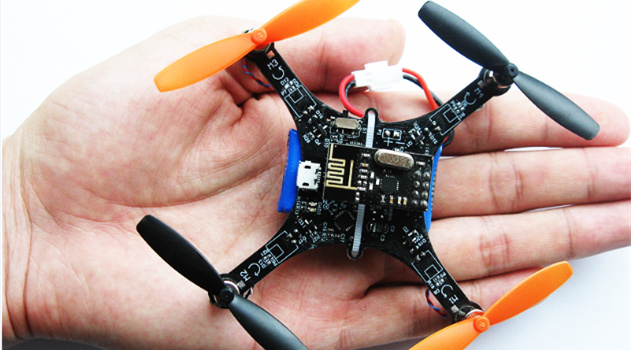
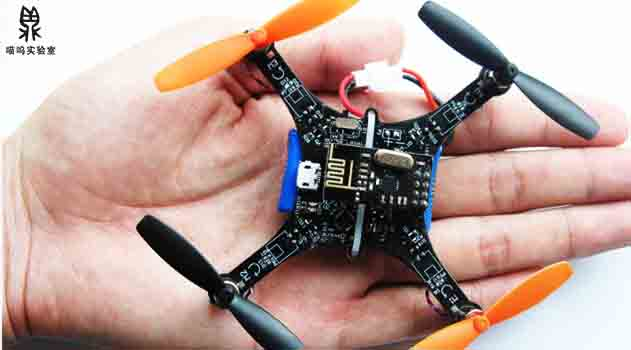
首页图片添加LOGO水印

diff --git a/_includes/head.html b/_includes/head.html
@@ -4,7 +4,7 @@
     <meta http-equiv="X-UA-Compatible" content="IE=edge">
     <meta name="viewport" content="width=device-width, initial-scale=1">
 	<meta name="keywords" content="喵呜实验室,MiaowLabs,MWbalanced,Littlebuzz,四轴飞行器,两轮自平衡小车" />
-    <meta name="description" content="MiaowLabs喵呜实验室以“Interest driven innovation”为主旨理念，致力于成为创新型开源硬件项目开拓者，目前开源产品涵盖两轮自平衡小车及微型四轴飞行器。">
+    <meta name="description" content="MiaowLabs喵呜实验室以“interest driven innovation”为主旨理念，致力于成为创新的开源硬件项目开拓者，目前开源产品涵盖两轮自平衡小车及微型四轴飞行器。">
     <meta name="author" content="songyibiao">
 	<link rel="shortcut icon" href="/img/icon/miaowlabs.ico">
 	
